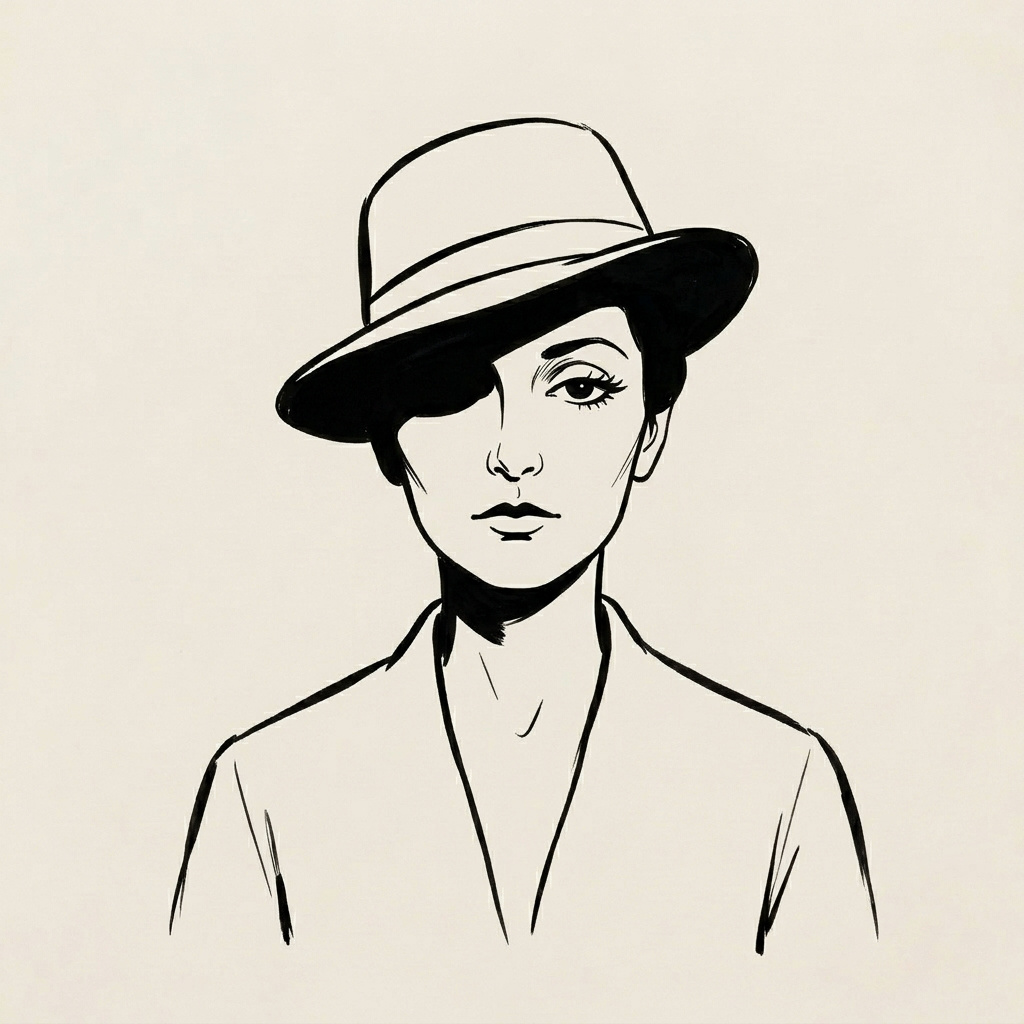
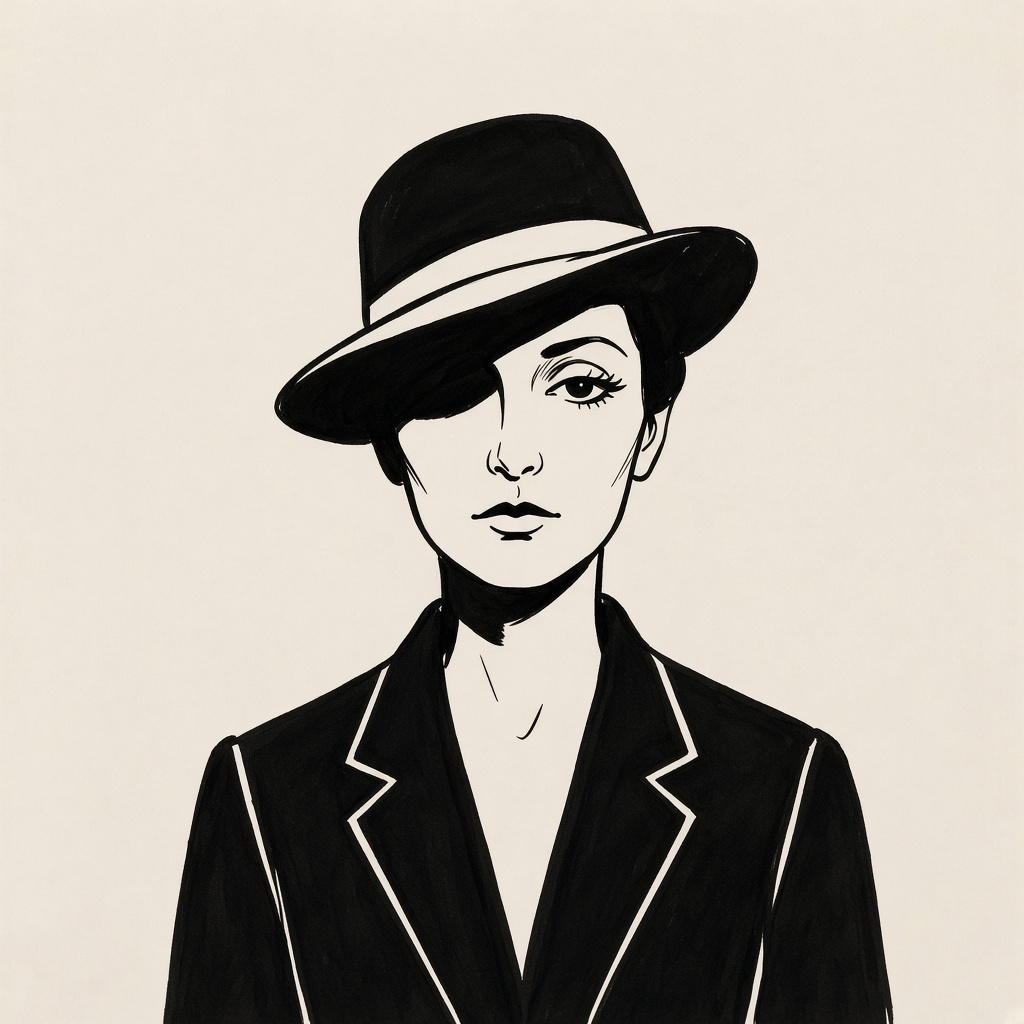
Cortex (the Evaluator) wears solid black jacket and hat; AI-agent black wardrobe rule; add style.json

diff --git a/marks.md b/marks.md
@@ -14,7 +14,7 @@ A character's required marks belong to that character alone. Before you add a ch
 | designer | a shirt collar split down the middle, one half solid black and the other half open white paper | the lead's spiral earring; teardrop pendant; black vest; glasses; spirals; dots; a necktie; a side part; a beard; a coat |
 | elder | short hair with one solid black patch on the crown; round wire glasses; long open-line coat with scattered ink dots and one spiral on the lapel | beard; the lead's spiral earring; teardrop pendant; black vest |
 | elise | sleek solid black hair swept to one side over one shoulder; a line of pin-dots along one wrist | the lead's spiral earring; teardrop pendant; black vest; glasses; wearing the gown |
-| evaluator | one eye always in solid black shadow under the narrow hat brim, the other eye visible | the lead's spiral earring; teardrop pendant; black vest; glasses; spirals; dots; a neck band; a heavy unbroken brow; a wide brim |
+| evaluator | one eye always in solid black shadow under the narrow hat brim, the other eye visible; jacket and narrow-brimmed hat filled in solid black ink, because she is an AI agent | the lead's spiral earring; teardrop pendant; black vest; glasses; spirals; dots; a neck band; a heavy unbroken brow; a wide brim |
 | lead | shoulder-length black hair as one solid mass with soft waves and two or three ink curls at the jaw; one spiral earring; thin chain with a small teardrop pendant | any spiral, birthmark, or tattoo on the cheek; glasses |
 | lumen | blunt solid black chin-length bob; exactly three ink dots in a row on one sleeve | the lead's spiral earring; teardrop pendant; black vest; glasses; jaw curls |
 | man-cowlick | very short solid black hair with one single tuft standing up from the front hairline; a plain crew-neck shirt; an empty neck with no jewelry and no marks on the shirt | the lead's spiral earring; teardrop pendant; black vest; glasses; beard; a side part; a necktie; a turned-up collar; a neck band; any earring; dots or a spiral on the shirt; a mohawk |

diff --git a/README.md b/README.md
@@ -9,6 +9,8 @@ It was built for the *Agentic Business Schooled* animated shorts and is shared a
 - `visual-bible.md` — the global rules: palette, line, modes, cinematography, motion, prompt language, and what is prohibited.
 - `style/` — the style plates every generation is anchored to.
 - `characters/`, `wardrobe/`, `locations/`, `props/` — one folder per entity, each with a `spec.md` (identity, required marks, forbidden marks) and its approved reference plates.
+- `style.json` — the style contract the local episode tools read: paper colour, allowed modes, style-board paths, and the prompt seams. The active bible is selected in `/workspace/local-agents/pipeline.json`.
+- Design rule: Cortex (the Evaluator) and any AI agent character added from now on wear solid black ink clothing (and hat, if any) so they stand out from the humans. The existing cast, including ARIA, VERA, LUMEN, SCOUT, ÉLISE, the architect, the copywriter, the designer, and the sage, keep their current wardrobe. This is recorded in `style.json` under `character_rules` and in the prompt preamble.
 - `registry.json` — a generated index of every entity and plate. The stills agent reads this.
 - `marks.md` — a generated table of which character owns which identity mark, so new characters stay distinct.
 - `index.html` — open in a browser to browse every plate.

diff --git a/characters/evaluator/spec.md b/characters/evaluator/spec.md
@@ -7,6 +7,6 @@ anchor: front.png
 plates: [front]
 introduced_in: E05
 ---
-Identity: a woman in her fifties with a narrow face and a small closed mouth, plain open-line jacket. She looks like a stranger who has just walked in. A narrow-brimmed hat sits low and tilted.
-Required marks: one eye always in solid black shadow under the narrow hat brim, the other eye visible
+Identity: a woman in her fifties with a narrow face and a small closed mouth, wearing a jacket filled in solid black ink. She looks like a stranger who has just walked in. A narrow-brimmed hat, also solid black ink, sits low and tilted.
+Required marks: one eye always in solid black shadow under the narrow hat brim, the other eye visible; jacket and narrow-brimmed hat filled in solid black ink, because she is an AI agent
 Forbidden marks: the lead's spiral earring; teardrop pendant; black vest; glasses; spirals; dots; a neck band; a heavy unbroken brow; a wide brim
